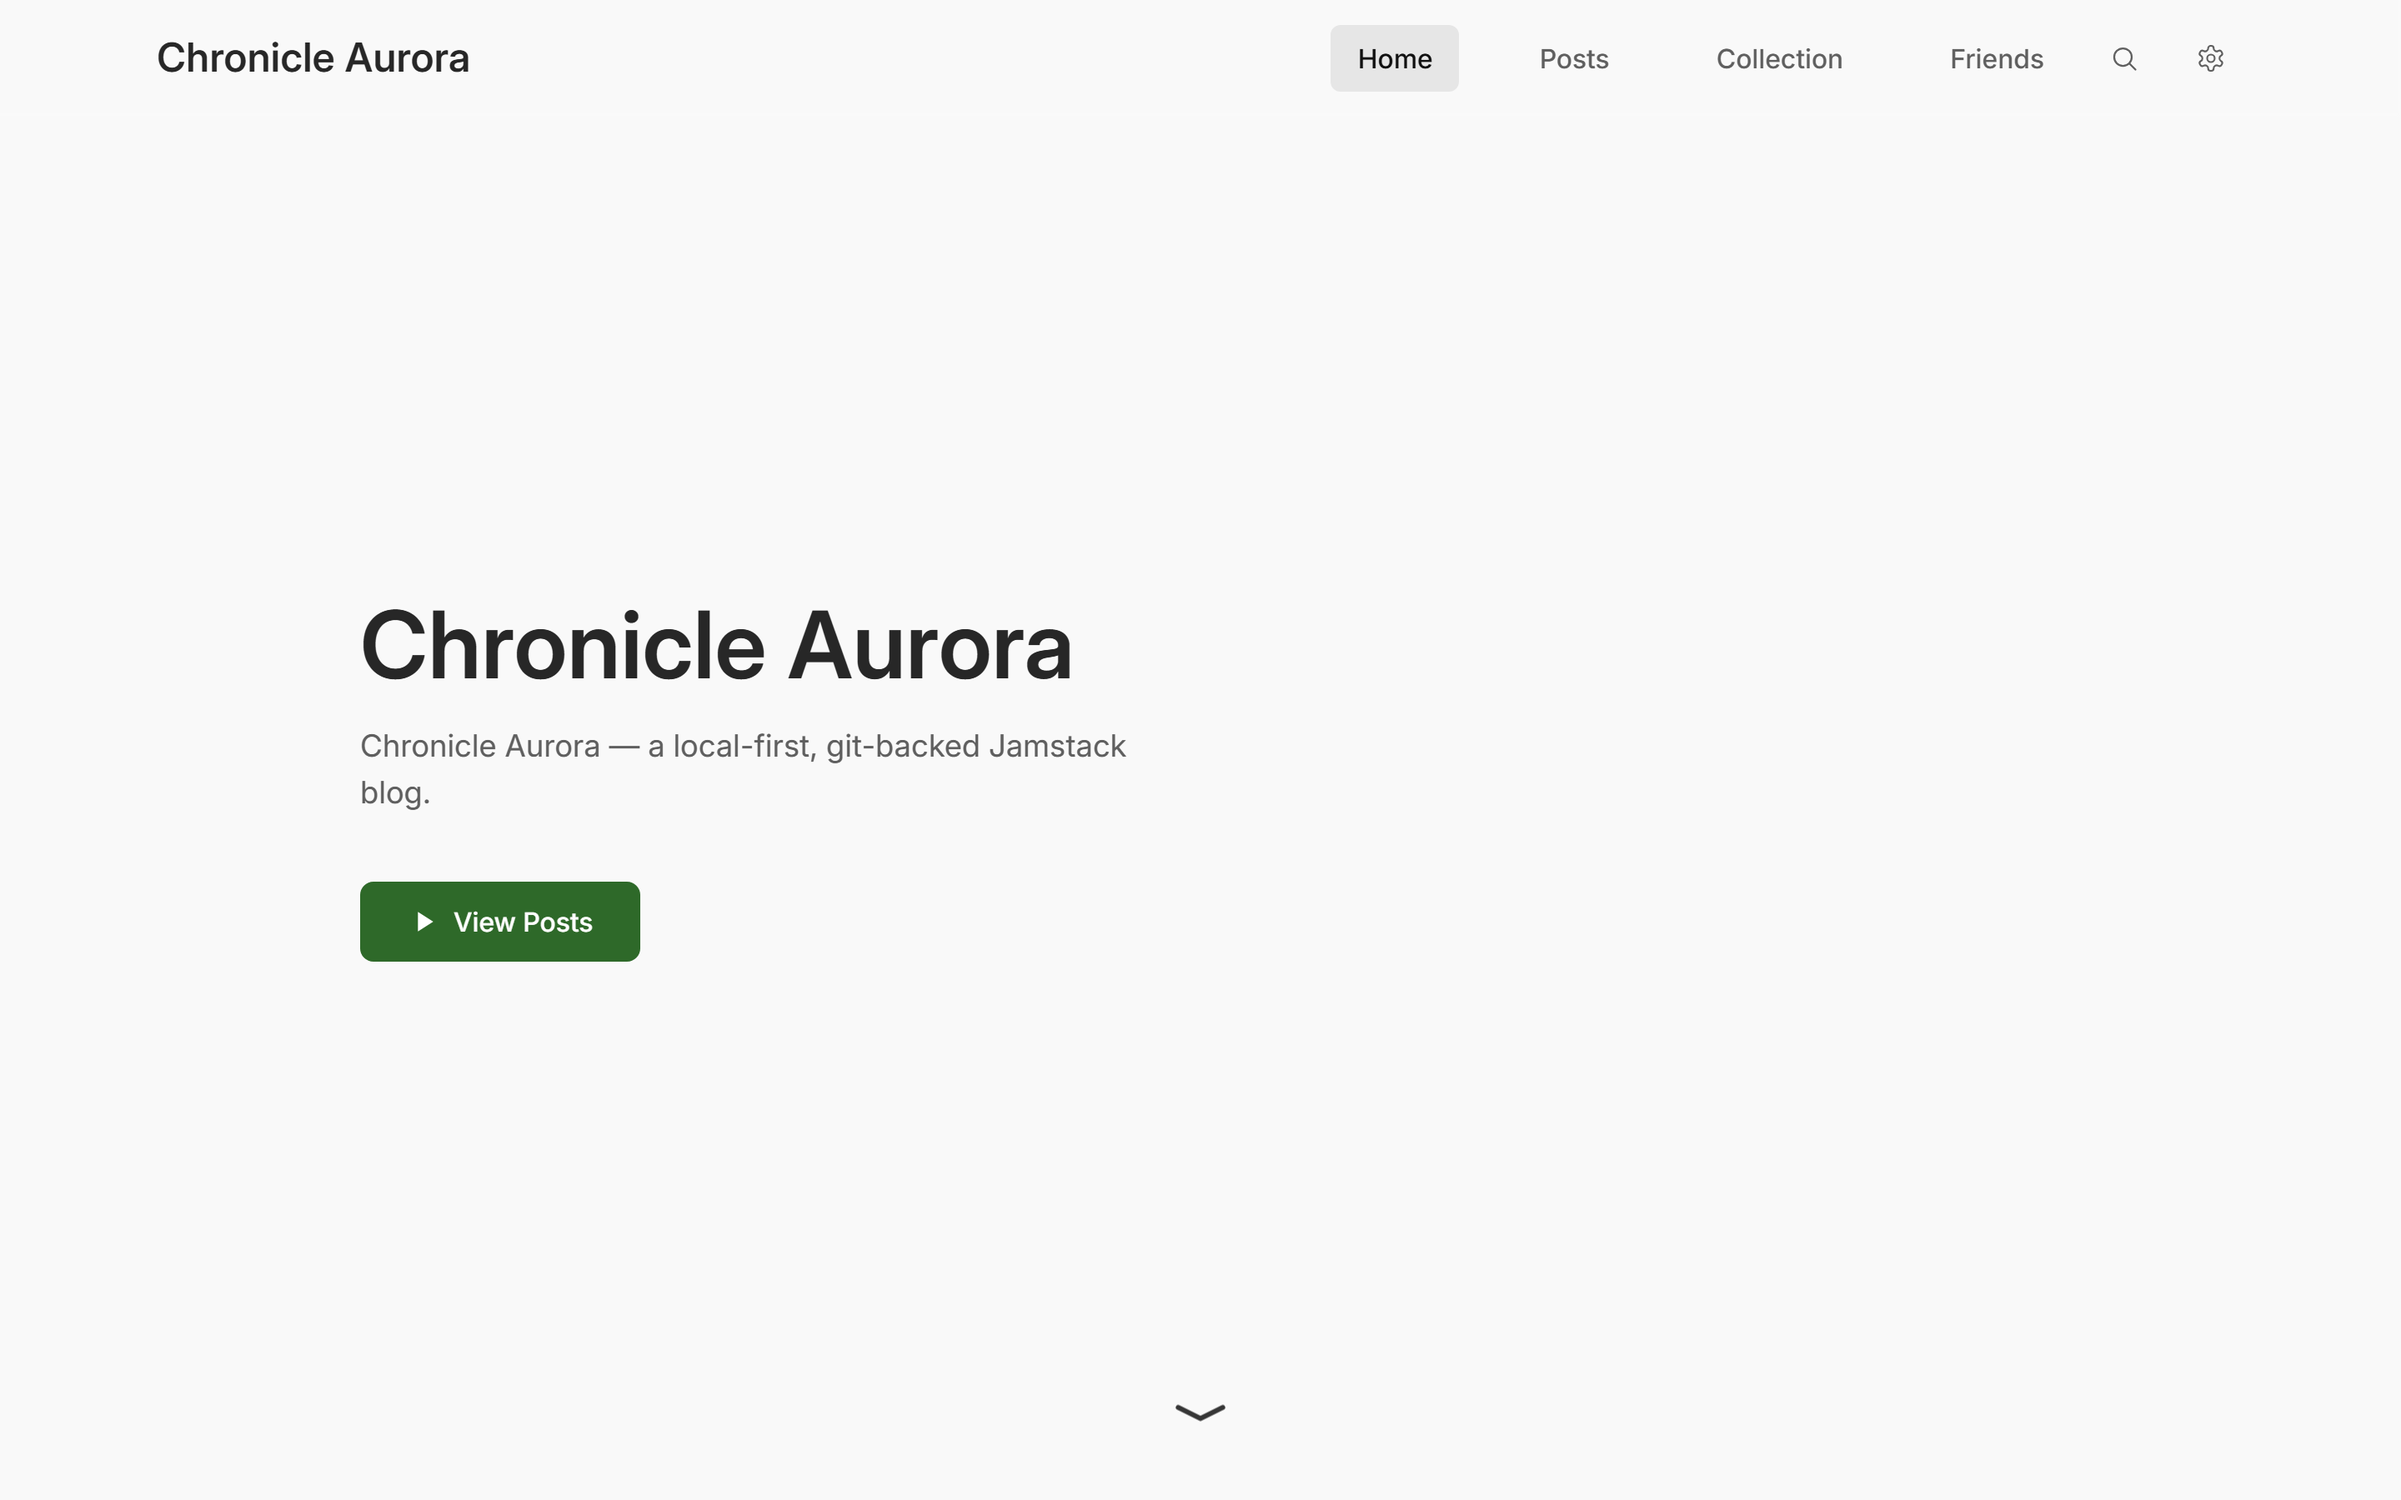
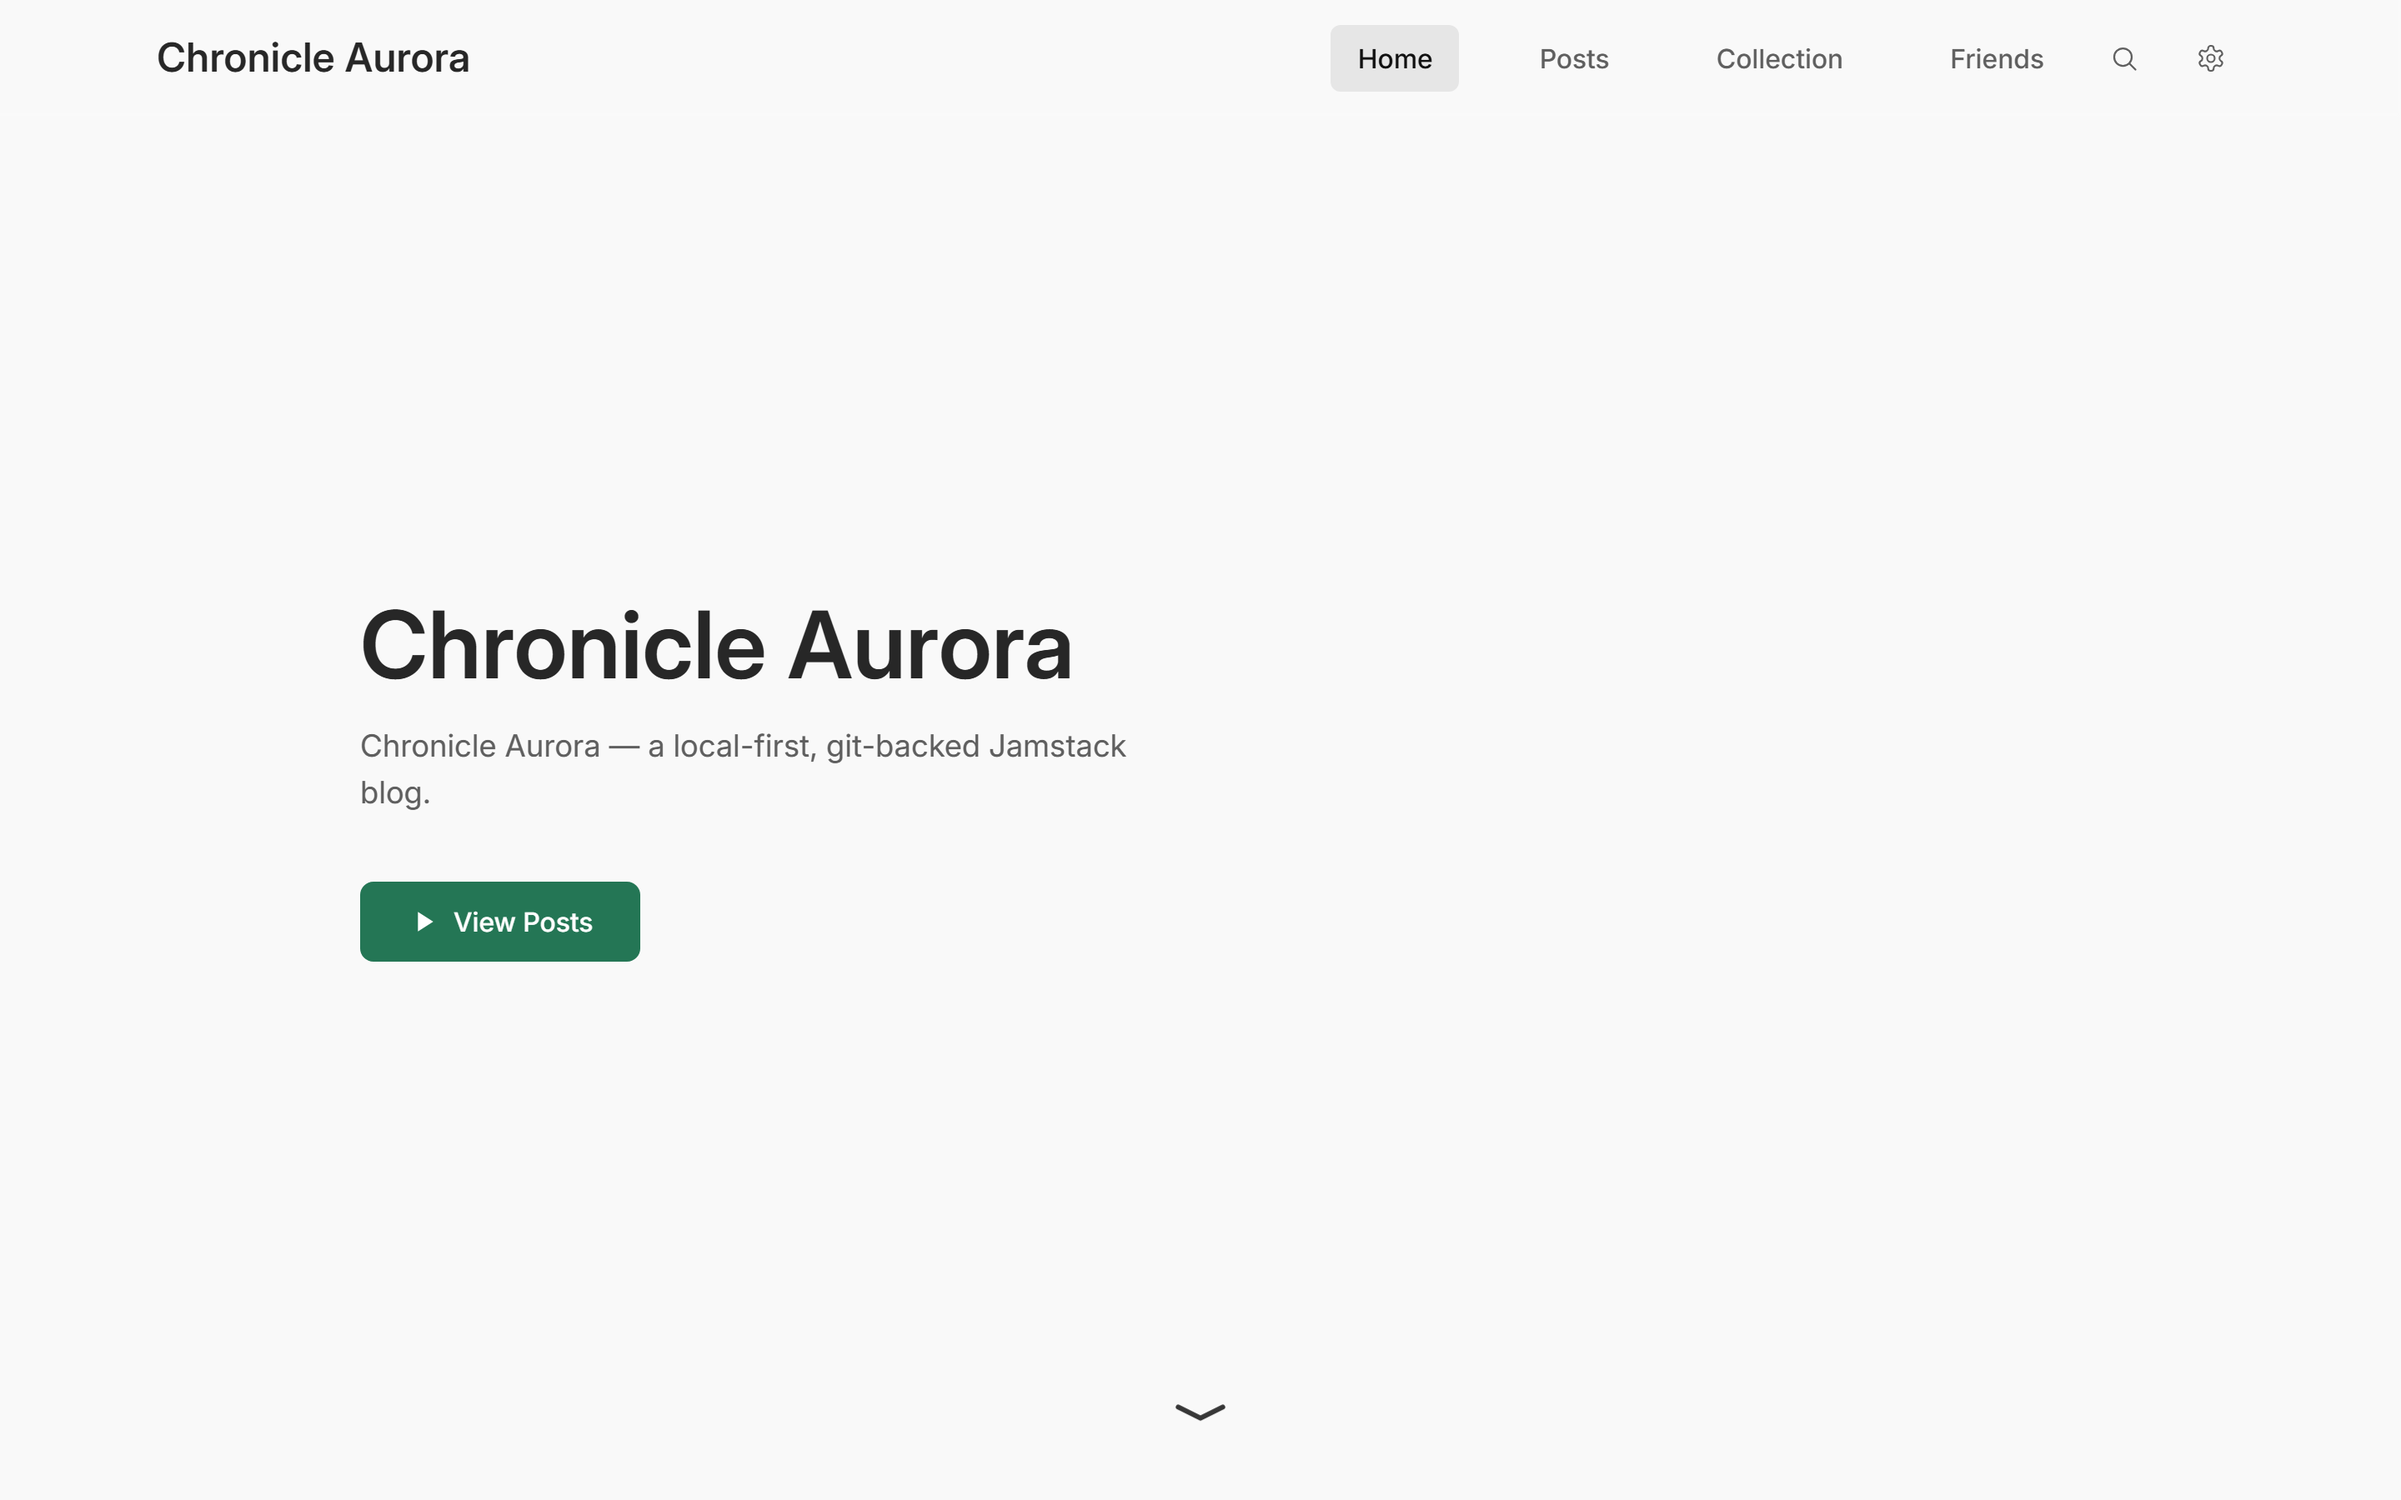
chore(release): 3.1.0 snapshot 10

Changed region(s): [[0.125, 0.56, 0.2812, 0.6533]]

diff --git a/packages/template-astro/src/themes/aurora/styles/global.css b/packages/template-astro/src/themes/aurora/styles/global.css
@@ -17,7 +17,7 @@
   /* 顶栏高度（与 critical-tokens.css 同值，移动端 50px） */
   --nav-h: 70px;
   --transition-duration: 1;
-  --accent-default: #2ea35f;
+  --accent-default: #10b981;
   --accent-base: var(--accentColor, var(--accent-default));
   --accent: var(--accent-base);
   --accent-dark: color-mix(in srgb, var(--accent) 80%, #000);

diff --git a/packages/template-astro/src/themes/aurora/styles/critical/critical-tokens.css b/packages/template-astro/src/themes/aurora/styles/critical/critical-tokens.css
@@ -21,7 +21,7 @@
   color-scheme: dark;
 
   /* Brand */
-  --accent-default: #2ea35f;
+  --accent-default: #10b981;
   --accent-base: var(--accentColor, var(--accent-default));
   --accent: var(--accent-base);
   --accent-readable: color-mix(in srgb, var(--accent) 70%, #fff);

diff --git a/CHANGELOG.md b/CHANGELOG.md
@@ -8,7 +8,18 @@ Downstream repos: `npm run update` merges `upstream/main` into your branch and k
 
 ## [Unreleased]
 
-No release has been cut since 3.0.12. The entries below describe what is on `main` now.
+**Highlights of 3.1.0**
+
+- A template repository that starts empty: `data/` ships schema defaults and no posts, the demo content
+  lives on a content-only `demo` branch, and `.chronicle/` is generated on first launch.
+- One build pipeline for any host: GitHub Pages root or project sites, custom domains, and a documented
+  static `dist/` for any CDN. `SITE_URL` and `BASE_PATH` are resolved automatically in CI.
+- CI you can trust: workspace typechecks, indexer unit tests, two plugin-isolation assertions, a
+  base-path link audit, and a browser-mode CMS end-to-end test.
+- Social and brand assets out of the box: canonical/Open Graph tags, a generated 1200×630 card, a full
+  favicon set, and directory-as-setting icons (or your avatar).
+- A clear upgrade path for forks: `npm run update` follows the `upstream` remote, and this file is the
+  contract for what changed.
 
 ### Added
 
@@ -45,6 +56,9 @@ No release has been cut since 3.0.12. The entries below describe what is on `mai
 - `scripts/reset-site.mjs` follows the current schema layout (homepage / appearance / post-page /
   friends / collections) and skips `x-site-flag` fields.
 - Plugin-isolation checks run against the demo fixtures and refuse to run when those fixtures are absent.
+- The default accent colour is now emerald green (#10b981, previously #36a32e); existing sites keep the accent configured in data/site.yml, and the default icon uses a fixed aurora gradient rather than the accent.
+- Schema `x-version` fields describe the schema, not the package: they stay independent of the
+  package version (post-page 3.0.0, profile/collections 2.0.2, system-settings 1.0.0).
 
 ### Fixed
 
@@ -54,6 +68,20 @@ No release has been cut since 3.0.12. The entries below describe what is on `mai
   `stop.sh`; `.gitattributes` now forces LF for `*.sh`.
 - `scripts/migrate-legacy.mjs` used `cp -r`, which does not exist in the Windows `cmd` shell used by npm.
 - README screenshots lived under `data/assets/`, so emptying `data/` broke the first screen of the README.
+
+### Upgrade notes
+
+This release rewrote the **upstream git history**: the `v3.0.5`–`v3.0.10` tags were removed, and every
+patch from `3.0.5` to `3.0.12` is now recorded as `3.1.0 snapshot 1`–`9`. If you forked before 3.1.0, do
+**not** try to merge the two histories: re-create your repository from the template (or
+`git reset --hard upstream/main`), then copy your `data/` back.
+
+- `data/` is now the clean template (schema defaults, no posts). Demo content lives on the `demo` branch
+  and is not copied by "Use this template" — fetch it with `npm run demo:fetch`.
+- `.chronicle/` is no longer tracked; the CMS regenerates its defaults on first launch.
+- README screenshots moved from `data/assets/` to `.github/assets/`, so emptying `data/` no longer breaks
+  the first screen of the README.
+- Shell scripts are forced to LF via `.gitattributes`; Windows checkouts of `*.sh` are now stable.
 
 ## [3.0.x] — 2026-08-07 → 2026-11-18
 

diff --git a/README.zh.md b/README.zh.md
@@ -1,5 +1,7 @@
 # Chronicle Aurora
 
+[![Version](https://img.shields.io/badge/version-3.1.0--snapshot.10-2f855a)](CHANGELOG.md)
+
 中文 [English](README.md)
 
 **在线演示：** [chr.eightyfor.top](https://chr.eightyfor.top) —— 由本仓库的 `demo` 分支构建。你的拷贝开箱是空的：`data/` 只有 schema 默认值，没有文章。

diff --git a/README.md b/README.md
@@ -1,5 +1,7 @@
 # Chronicle Aurora
 
+[![Version](https://img.shields.io/badge/version-3.1.0--snapshot.10-2f855a)](CHANGELOG.md)
+
 [中文](README.zh.md) English
 
 **Live demo:** [chr.eightyfor.top](https://chr.eightyfor.top) — built from the `demo` branch of this repository. Your copy starts empty: `data/` ships schema defaults and no posts.
